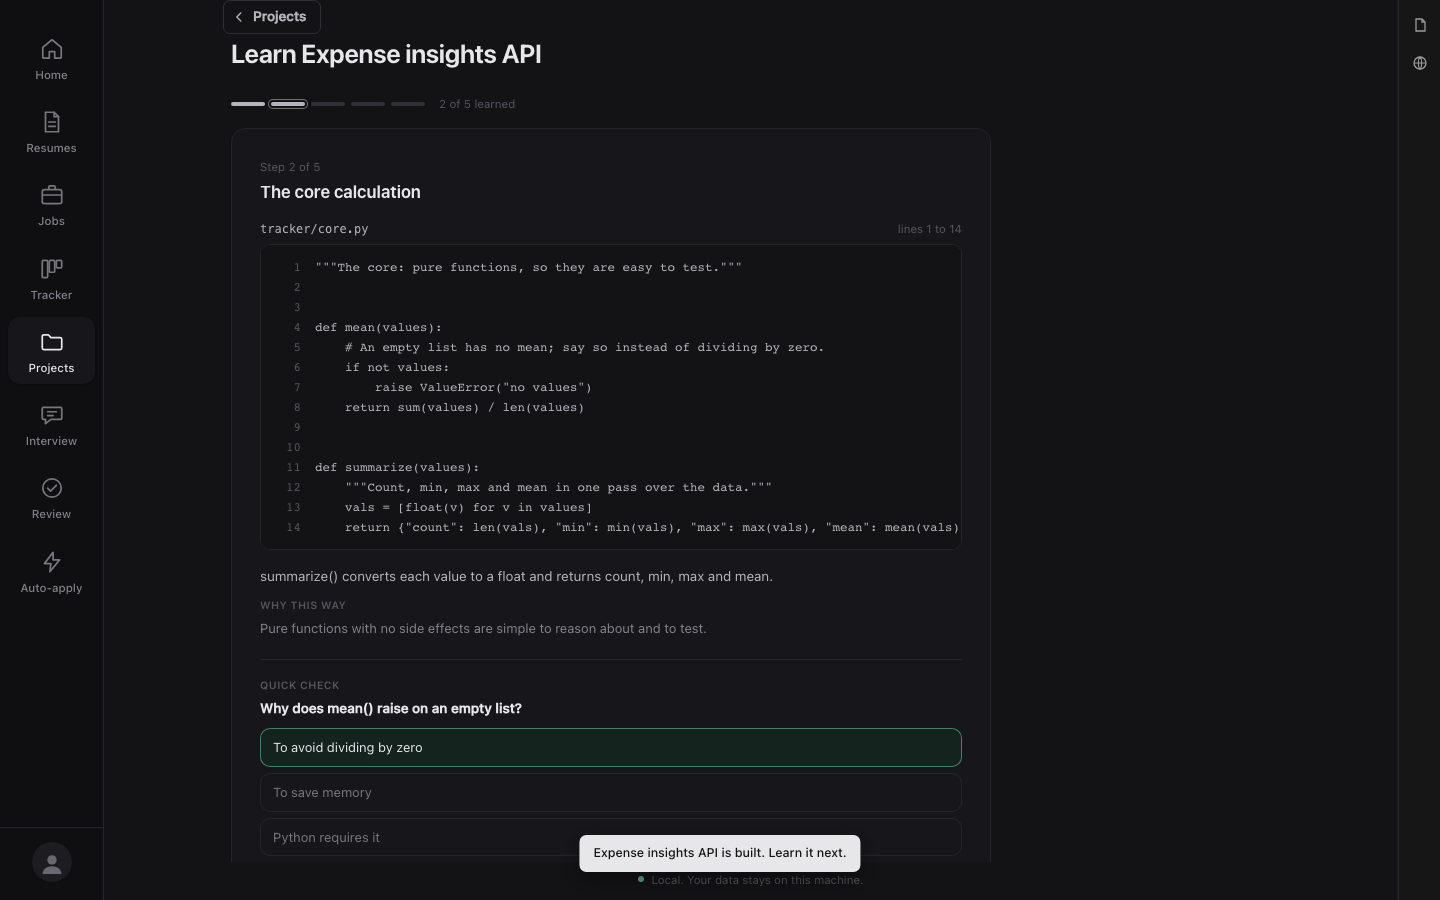
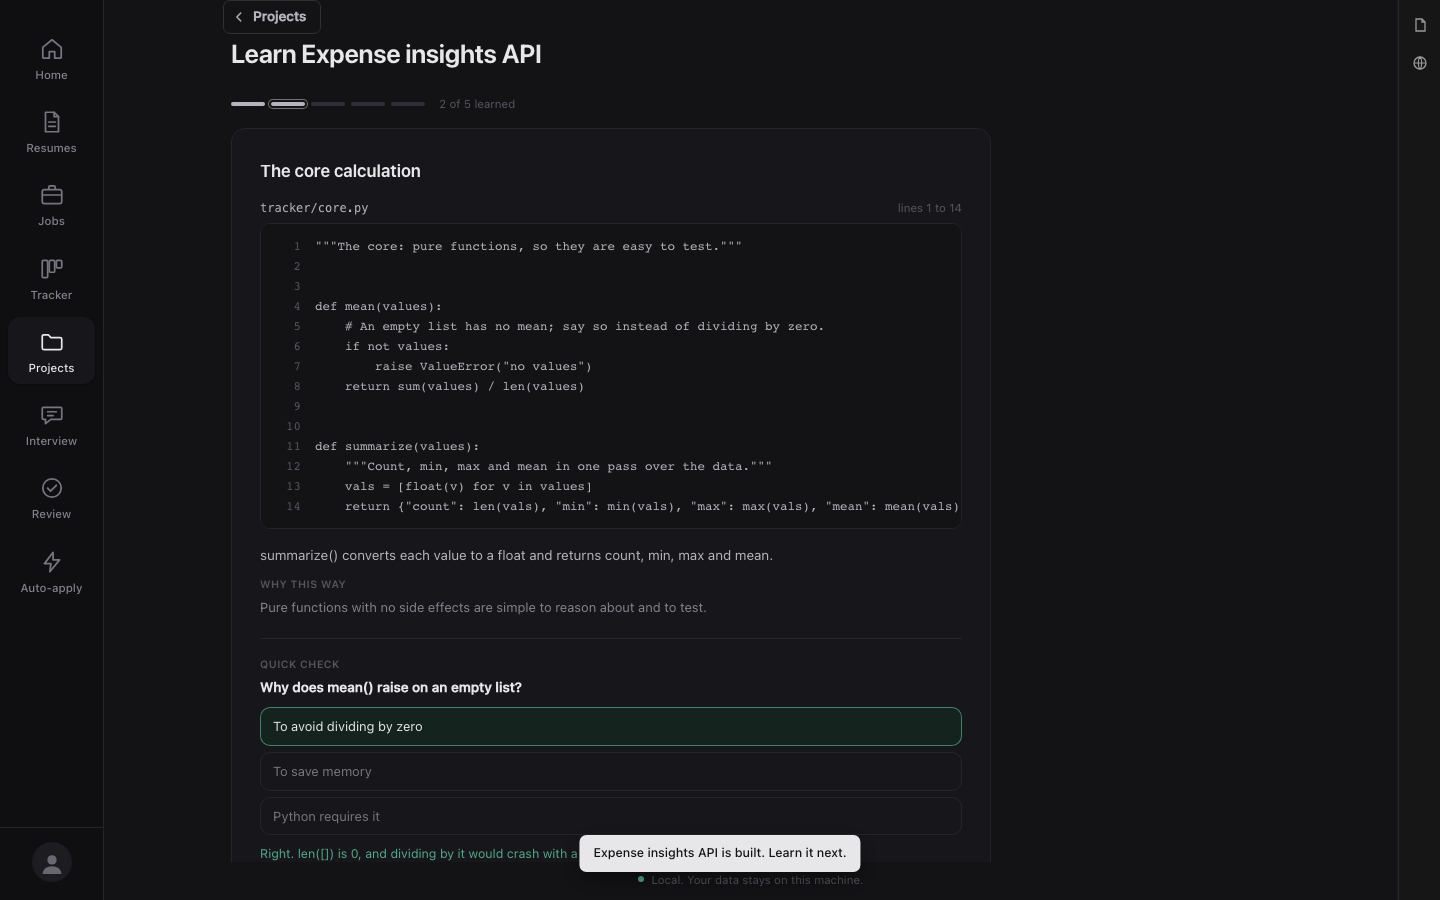
Projects: Defend it says where you came from, and no title says itself twice
Defend it no longer borrows the Interview prep head. Opened for a project, the recorded
interview sits under '< Projects' (the Templates back link, text on the title's edge) and
'Defend <title>' with one line, 'Answer as you would in an interview. Pass to verify this
project.', and the Quit button steps aside. Leaving mid-interview asks in the page (Stay,
Leave; recorded answers are kept, as Quit keeps them). The landing drops 'Not now' and the
repeated project name; the report drops its second 'Back to projects', and a pass offers
'Add to resume' as the next step. The ordinary Interview prep flow is unchanged.

The ideas page drops the 'Ideas for you' eyebrow under 'Project ideas'; the Target chip sits
on its own row on the title's edge. Cards no longer repeat their stage pill on the button
(Learn it: Start or Continue; Defend it: Start interview), a build error no longer ends in
'Try again' beside the Try again button, and Learn it drops 'Step 2 of 5' beside the rail.

diff --git a/ui/static/app.js b/ui/static/app.js
@@ -4466,20 +4466,20 @@
     }
     if (stage === "failed") {
       return { pill: PT("projects.sStopped", "Build stopped"), cls: "is-failed",
-        extra: `<div class="proj-card-err">${esc(b.error || PT("projects.bFailed", "The build stopped. Try again."))}</div>`,
+        extra: `<div class="proj-card-err">${esc(b.error || PT("projects.bFailed", "Something went wrong while building."))}</div>`,
         acts: btn("rebuild", PT("projects.tryAgain", "Try again"), true) };
     }
     if (stage === "learn") {
       const n = lr.learned || 0, m = lr.total || 0;
       return { pill: PT("projects.sLearn", "Learn it"), cls: "is-learn",
         extra: m ? bar(Math.round(n / m * 100), PT("projects.nLearned", "{n} of {m} learned").replace("{n}", n).replace("{m}", m)) : "",
-        acts: btn("learn", n ? PT("projects.continueLearn", "Continue") : PT("projects.learnIt", "Learn it"), true) };
+        acts: btn("learn", n ? PT("projects.continueLearn", "Continue") : PT("projects.startLearn", "Start"), true) };
     }
     if (stage === "defend") {
       const tried = p.defense && p.defense.tried;
       return { pill: PT("projects.sDefend", "Defend it"), cls: "is-defend",
         extra: tried ? `<div class="proj-card-note">${esc(PT("projects.lastScore", "Last try {s}. The bar is 70.").replace("{s}", p.defense.score))}</div>` : "",
-        acts: btn("learn", PT("projects.review", "Review"), false) + btn("defend-rec", PT("projects.defendIt", "Defend it"), true) };
+        acts: btn("learn", PT("projects.review", "Review"), false) + btn("defend-rec", PT("projects.startInterview", "Start interview"), true) };
     }
     // Verified
     const credit = p.repo_url && !p.repo_private ? "" : `<label class="proj-credit"><input type="checkbox" data-act="credit" ${p.ai_credit ? "checked" : ""}>
@@ -4583,8 +4583,7 @@
         : `<button class="btn btn-primary btn-sm" id="learnNextOpen" type="button">${esc(PT("projects.nextOpen", "Next unlearned step"))}</button>`)
       : `<button class="btn btn-primary btn-sm" id="learnCheck" type="button" ${c.kind !== "line" && L.pick == null ? "disabled" : ""}>${esc(PT("projects.check", "Check"))}</button>`;
     $("#projLearnCard").innerHTML = `
-      <div class="learn-hd"><span class="learn-n">${esc(PT("projects.stepOf", "Step {n} of {m}").replace("{n}", L.i + 1).replace("{m}", n))}</span>
-        <h3 class="learn-h">${esc(s.title)}</h3></div>
+      <h3 class="learn-h">${esc(s.title)}</h3>
       <div class="learn-file"><span class="learn-path">${esc(s.path)}</span><span class="learn-lines">${esc(PT("projects.lines", "lines {a} to {b}").replace("{a}", s.start).replace("{b}", s.end))}</span></div>
       <pre class="learn-code" tabindex="0" aria-label="${esc(s.path)}"><code>${learnCode(s)}</code></pre>
       ${s.explain ? `<p class="learn-explain">${esc(s.explain)}</p>` : ""}
@@ -5364,6 +5363,7 @@
     if ($("#prepList")) $("#prepList").hidden = false;
     if ($("#prepTilesMsg")) $("#prepTilesMsg").hidden = true;
     GUIDED = false; hideGuidedProgress();   // returning to the entry ends any guided flow
+    if (SCR_PROJECT) { SCR_PROJECT = null; } prepHead(null);   // the ordinary Interview prep head
     try { const d = await api("/api/preps"); PREPS = d.preps || []; } catch { PREPS = []; }
     // Simple manual entry: a fresh role + JD + CV form on every visit. Each visit goes through
     // step 1, so there's no "change the role" affordance on step 2, you just re-enter here.
@@ -5590,6 +5590,7 @@
   const fmtClock = (x) => `${Math.floor(x / 60)}:${String(x % 60).padStart(2, "0")}`;
   function startScreen(prep, opts) {
     SCR_PROJECT = (opts && opts.project) || null;
+    prepHead(SCR_PROJECT);
     SCR_PREP = prep; SCREEN = null; SCR_EXTRA = false; SCR_UPLOADS = {}; SCR_TR = {}; SCR_RETAKES = {}; SCR_PRACTICE = null;
     SCR_DRILL = (opts && Array.isArray(opts.drill) && opts.drill.length) ? opts.drill : null; SCR_SECS = {};
     $("#prepList").hidden = true; $("#prepScreen").hidden = false;
@@ -5610,16 +5611,16 @@
     scrHead("", "");
     $("#scrStage").innerHTML = `
       <div class="scr-intro"><div class="scr-welcome">
-        <div class="r1-eyebrow">${esc(SCR_PROJECT ? T("projects.defendEyebrow", "Defend your project, recorded interview") : T("r1.eyebrow", "Round 1, recorded interview"))}</div>
-        <h2 class="scr-welcome-h">${r1Title(p)}</h2>
+        <div class="r1-eyebrow">${esc(SCR_PROJECT ? T("projects.defendEyebrow", "Recorded interview") : T("r1.eyebrow", "Round 1, recorded interview"))}</div>
+        <h2 class="scr-welcome-h">${SCR_PROJECT ? esc(T("projects.defendH", "5 questions on how you built it")) : r1Title(p)}</h2>
         <p class="scr-welcome-sub">${SCR_PROJECT
-          ? esc(T("projects.defendFacts", "5 questions on how you built it. Score 70 to verify it."))
+          ? esc(T("projects.defendFacts", "About 15 minutes. Score 70, answering every question, to verify it."))
           : SCR_DRILL
           ? esc(T("rc.drillFacts", "Re-drill: {n} questions from your report card.").replace("{n}", String(SCR_DRILL.length)))
           : esc(T("r1.landingFacts", "5 questions, about 20 minutes.")) + " " + esc((k => k ? k.charAt(0).toUpperCase() + k.slice(1) : "")(r1Kinds(p))) + "."}</p>
         <div class="scr-welcome-acts">
           <button class="btn btn-primary" id="scrBegin" type="button">${esc(T("r1.getStarted", "Get started"))}</button>
-          <button class="btn btn-ghost" id="scrBail" type="button">${esc(T("r1.notNow", "Not now"))}</button>
+          ${SCR_PROJECT ? "" : `<button class="btn btn-ghost" id="scrBail" type="button">${esc(T("r1.notNow", "Not now"))}</button>`}
         </div>
         ${SCR_PROJECT ? "" : SCR_DRILL ? `<ol class="rc-goals-list rc-drill-list">${SCR_DRILL.map(q => `<li>${esc(q.q)}</li>`).join("")}</ol>` : `<div class="rc-goals" id="prepGoals" hidden></div>`}
         <p class="scr-disclaimer">${esc(T("r1.disclaimer", "Practice for a HireVue-style one-way video interview. Not affiliated with HireVue, Inc."))}</p>
@@ -5672,6 +5673,30 @@
     }
     renderR1Devices();
   }
+  // The page head: Interview prep, or for Defend it "Defend <project>" under a back link to
+  // Projects (the person came from there), with no Quit in the interview bar.
+  function prepHead(project) {
+    const t = $("#prepTitle"), sub = $("#prepSub"), back = $("#prepProjBack"), quit = $("#scrQuit");
+    if (back) back.hidden = !project;
+    if (quit) quit.hidden = !!project;
+    hideProjLeave();
+    if (t) t.textContent = project ? T("projects.defendTitle", "Defend {t}").replace("{t}", project.title || "") : T("prep.title", "Interview prep");
+    if (sub) sub.textContent = project ? T("projects.defendSub", "Answer as you would in an interview. Pass to verify this project.")
+      : T("prep.sub", "Practice for a real interview, built from the job you applied to.");
+  }
+  function hideProjLeave() { const b = $("#prepProjLeave"); if (b) b.hidden = true; }
+  // Back to Projects. Mid-interview (a screen started, not yet scored) asks first, in the page:
+  // recorded answers are kept, exactly as Quit keeps them.
+  $("#prepProjBack")?.addEventListener("click", () => {
+    if (!(SCREEN && SCREEN.id && !SCREEN.result)) { quitScreen(); return; }
+    const box = $("#prepProjLeave"); if (!box) { quitScreen(); return; }
+    $("#prepProjLeaveT").textContent = T("projects.leaveQ", "Leave this interview? Answers you recorded are kept.");
+    $("#prepProjStay").textContent = T("projects.stay", "Stay");
+    $("#prepProjLeaveGo").textContent = T("projects.leave", "Leave");
+    box.hidden = false; $("#prepProjStay").focus();
+  });
+  $("#prepProjStay")?.addEventListener("click", () => { hideProjLeave(); $("#prepProjBack")?.focus(); });
+  $("#prepProjLeaveGo")?.addEventListener("click", () => { hideProjLeave(); quitScreen(); });
   // Defend it without a camera or mic: the written defence on the same five questions, said out
   // loud (a fallback must announce itself).
   function projectDefendWritten() {
@@ -5935,7 +5960,7 @@
         <div id="r1Gate"></div>
         <div class="mock-next">
           <button class="btn btn-ghost btn-sm" id="scrReport" type="button">${esc(T("r1.docx", "Download report (.docx)"))}</button>
-          <button class="btn btn-ghost btn-sm" id="scrDone" type="button">${esc(SCR_PROJECT ? T("projects.backToProjects", "Back to projects") : T("r1.backToPrep", "Back to prep"))}</button>
+          ${SCR_PROJECT ? "" : `<button class="btn btn-ghost btn-sm" id="scrDone" type="button">${esc(T("r1.backToPrep", "Back to prep"))}</button>`}
           <button class="btn btn-danger-ghost btn-sm" id="scrDelete" type="button">${esc(T("r1.deleteRec", "Delete recordings"))}</button>
         </div>
       </div>`;
@@ -5962,9 +5987,13 @@
     box.innerHTML = `<div class="scr-unlock proj-verdict-box ${ok ? "ok" : ""}">
       <b>${esc(ok ? T("projects.verifiedH", "Verified. Your project can go public and onto your resume.")
                   : T("projects.notYetH", "Not verified yet. The bar is 70 on every question answered."))}</b>
-      <button class="btn btn-primary btn-sm" id="projVerdictGo" type="button">${esc(ok ? T("projects.backToProjects", "Back to projects") : T("projects.tryAgain", "Try again"))}</button></div>`;
-    $("#projVerdictGo")?.addEventListener("click", () => {
-      if (ok) { quitScreen(); return; }
+      <button class="btn btn-primary btn-sm" id="projVerdictGo" type="button">${esc(ok ? T("projects.addResume", "Add to resume") : T("projects.tryAgain", "Try again"))}</button></div>`;
+    $("#projVerdictGo")?.addEventListener("click", async () => {
+      if (ok) {   // the next real step; the back link above already goes to Projects
+        try { const res = await fetch(`/api/projects/${p.id}/tocv`, { method: "POST" }); toast(res.ok ? T("projects.addedResume", "Added to your resume material.") : T("projects.cantAdd", "Couldn't add it to your resume.")); }
+        catch { toast(T("projects.cantAdd", "Couldn't add it to your resume.")); }
+        quitScreen(); return;
+      }
       stopScrStream(); startScreen({ id: null, project_id: p.id, role: p.title, company: "", questions: [] }, { project: p });
     });
   }
@@ -6072,7 +6101,7 @@
     SCR_PHASE = "idle"; stopScrStream();
     $("#prepScreen").hidden = true; $("#prepList").hidden = false;
     if (SCR_PROJECT) {   // Defend it came from Projects: go back there
-      SCR_PROJECT = null; showView("projects"); loadProjects(); return;
+      SCR_PROJECT = null; prepHead(null); showView("projects"); loadProjects(); return;
     }
     loadPreps();
   }

diff --git a/ui/templates/index.html b/ui/templates/index.html
@@ -733,12 +733,11 @@
         <!-- Project ideas: one click, no typing. GitHub-shaped ideas aimed at the target role the
              app already knows, each with real example repos from GitHub search. Start creates the
              draft here and, when GitHub is connected, a private repo. The defend gate still applies. -->
-        <section class="proj-ideas" id="projIdeas" hidden aria-labelledby="projIdeasH">
-          <!-- Row 1: the eyebrow and the Target chip. Row 2: one toolbar on the Jobs filter grammar
+        <section class="proj-ideas" id="projIdeas" hidden aria-labelledby="projPageTitle">
+          <!-- Row 1: the Target chip (the page title already says "Project ideas", so no eyebrow). Row 2: one toolbar on the Jobs filter grammar
                (search, the category select, GitHub). No labelled chip rows. No close or refresh: the
                back link above the title leaves, and Search and More ideas bring new ideas. -->
           <div class="proj-ideas-hd">
-            <h2 class="proj-ideas-h" id="projIdeasH" data-i18n="projects.ideasTitle">Ideas for you</h2>
             <div class="proj-target" id="projTargetBox"><!-- target chip injected --></div>
           </div>
           <div class="proj-ideas-bar" id="projIdeasBar">
@@ -809,10 +808,23 @@
       <section class="view view-prep" id="view-prep">
         <header class="page-head">
           <div>
-            <h1 class="page-title" data-i18n="prep.title">Interview prep</h1>
-            <p class="page-sub" data-i18n="prep.sub">Practice for a real interview, built from the job you applied to.</p>
+            <!-- Defend it (a project's recorded interview) only: back to Projects, like Templates. -->
+            <button class="btn btn-ghost btn-back tpl-back proj-back" id="prepProjBack" type="button" hidden>
+              <svg viewBox="0 0 16 16" width="14" height="14" aria-hidden="true"><path d="M10 3.5L5.5 8 10 12.5" stroke="currentColor" stroke-width="1.6" fill="none" stroke-linecap="round" stroke-linejoin="round"/></svg>
+              <span data-i18n="projects.title">Projects</span>
+            </button>
+            <h1 class="page-title" id="prepTitle" data-i18n="prep.title">Interview prep</h1>
+            <p class="page-sub" id="prepSub" data-i18n="prep.sub">Practice for a real interview, built from the job you applied to.</p>
           </div>
         </header>
+        <!-- Leaving Defend it mid-interview asks here, in the page. -->
+        <div class="scr-leave" id="prepProjLeave" role="alertdialog" aria-labelledby="prepProjLeaveT" hidden>
+          <span id="prepProjLeaveT"></span>
+          <span class="scr-leave-acts">
+            <button class="btn btn-quiet btn-sm" id="prepProjStay" type="button"></button>
+            <button class="btn btn-ghost btn-sm" id="prepProjLeaveGo" type="button"></button>
+          </span>
+        </div>
 
         <!-- Guided-flow progress: shown only during a Full mock (Round 1, then Round 2). -->
         <div class="prep-progress" id="prepProgress" hidden>

diff --git a/ui/static/styles.css b/ui/static/styles.css
@@ -2515,6 +2515,12 @@ body.cv-dragging * { cursor: grabbing !important; }
    then cap the inner content at 720 (its tuned width for the recording grid). */
 .prep-screen { max-width: 1040px; margin: 0 auto; }
 .prep-screen > .mock-top, .prep-screen > .scr-stage { max-width: 880px; }
+/* Defend it: leaving mid-interview asks in the page, on the interview's own 880 column. */
+.scr-leave { max-width: 880px; margin: 0 0 14px max(0px, calc((100% - 1040px) / 2)); display: flex; align-items: center; justify-content: space-between; gap: 14px;
+  flex-wrap: wrap; padding: 12px 16px; box-sizing: border-box; font-size: 13px; color: var(--ink);
+  background: var(--surface); border: 1px solid var(--border-strong); border-radius: var(--r); }
+.scr-leave[hidden] { display: none; }
+.scr-leave-acts { display: flex; gap: 6px; }
 /* Recorded-interview intro: framed as a card, matching the landing's card system. */
 .scr-intro { background: var(--surface); border: 1px solid var(--border); border-radius: var(--r-lg); padding: 30px 32px; }
 /* Round 1 landing and notice: minimal, one action. */
@@ -2915,7 +2921,7 @@ body.cv-dragging * { cursor: grabbing !important; }
 .view-templates .page-head { max-width: 1320px; margin-bottom: 10px; }
 .view-templates .tpl-back { margin-left: -8px; margin-bottom: 0; }
 /* The ideas gallery's back link: the Templates one, so its text sits on the title's left edge. */
-.view-projects .proj-back { margin-left: -8px; margin-bottom: 0; }
+.view-projects .proj-back, .view-prep .proj-back { margin-left: -8px; margin-bottom: 0; }
 
 /* The job title stays put while the description scrolls under it (LinkedIn does the same).
    A zero-height sticky anchor at the top of the pane carries a compact bar that is shown only

diff --git a/tests/test_projects.py b/tests/test_projects.py
@@ -578,8 +578,25 @@ def test_ideas_gallery_is_a_page_with_a_back_link():
     assert 'class="btn btn-ghost btn-back tpl-back proj-back" id="projIdeasBack"' in html
     assert 'id="projIdeasClose"' not in html and 'id="projIdeasRefresh"' not in html
     css = (root / "ui" / "static" / "styles.css").read_text(encoding="utf-8")
-    assert ".view-projects .proj-back { margin-left: -8px; margin-bottom: 0; }" in css
+    assert ".view-projects .proj-back, .view-prep .proj-back { margin-left: -8px; margin-bottom: 0; }" in css
     src = (root / "ui" / "static" / "app.js").read_text(encoding="utf-8")
     body = _js_function(src, "renderProjList")
     assert 'projects.ideasPageTitle' in body and "acts.hidden = true" in body
     assert 'e.key !== "Escape"' in src and "closeIdeas();" in src
+
+
+def test_no_repeated_titles_and_defend_it_says_where_you_came_from():
+    """The ideas page has no "Ideas for you" eyebrow under "Project ideas"; Defend it heads the
+    recorded interview with "Defend <title>" under a back link to Projects (no Quit), asks in the
+    page before leaving mid-interview, and the ordinary Interview prep head is restored."""
+    from pathlib import Path
+    root = Path(__file__).resolve().parents[1]
+    html = (root / "ui" / "templates" / "index.html").read_text(encoding="utf-8")
+    assert 'id="projIdeasH"' not in html and "Ideas for you" not in html
+    assert 'class="btn btn-ghost btn-back tpl-back proj-back" id="prepProjBack"' in html
+    assert 'id="prepProjLeave"' in html
+    src = (root / "ui" / "static" / "app.js").read_text(encoding="utf-8")
+    head = _js_function(src, "prepHead")
+    assert "projects.defendTitle" in head and 'quit.hidden = !!project' in head
+    assert "window.confirm" not in head and "confirm(" not in _js_function(src, "hideProjLeave")
+    assert "prepHead(null)" in _js_function(src, "quitScreen") and "prepHead(null)" in _js_function(src, "loadPreps")

diff --git a/ui/app.py b/ui/app.py
@@ -5824,16 +5824,16 @@ def _run_build(pid: str, llm, generate: bool = True) -> None:
     except Exception as exc:   # the model or the network: say so, keep the package for a retry
         traceback.print_exc()
         reason = _classify_outage(exc)
-        msg = ("Your AI allowance ran out partway through. Try again once it is topped up."
+        msg = ("Your AI allowance ran out partway through. Top it up, then build again."
                if reason in ("upgrade_required", "no_credit") else
-               "The AI could not finish this build. Try again." if not reason else
-               "SponsorJobs could not reach the AI. Check your connection and try again.")
+               "The AI could not finish this build." if not reason else
+               "SponsorJobs could not reach the AI. Check your connection.")
         progress(state="failed", error=msg, stage="write", tokens=meter.as_dict(), finished=time.time())
         return
     if p.get("target") == "github":
         token = _cred("GITHUB_TOKEN")
         if not token:
-            progress(state="failed", stage="push", error="Connect GitHub in Settings, then try again. "
+            progress(state="failed", stage="push", error="Connect GitHub in Settings first. "
                      "Your files are saved here.", tokens=meter.as_dict(), finished=time.time())
             return
         progress(state="pushing", done=len(files), total=len(files))

diff --git a/ui/project_builder.py b/ui/project_builder.py
@@ -310,7 +310,7 @@ def generate(llm, project: dict, progress=lambda **kw: None, personal: list[str]
     raw_plan = meter.call(llm, llm.plan_project_files, idea, 16, MAX_TOTAL_BYTES, prompt_chars=3000)
     plan_files = _clean_plan(raw_plan or {})
     if len(plan_files) < 3:
-        raise BuildError("The AI could not plan this project. Try again.", "plan")
+        raise BuildError("The AI could not plan this project.", "plan")
     plan = {"files": plan_files, "run": (raw_plan or {}).get("run", ""), "test": (raw_plan or {}).get("test", "")}
     total = len(plan_files)
     written: list[dict] = []
